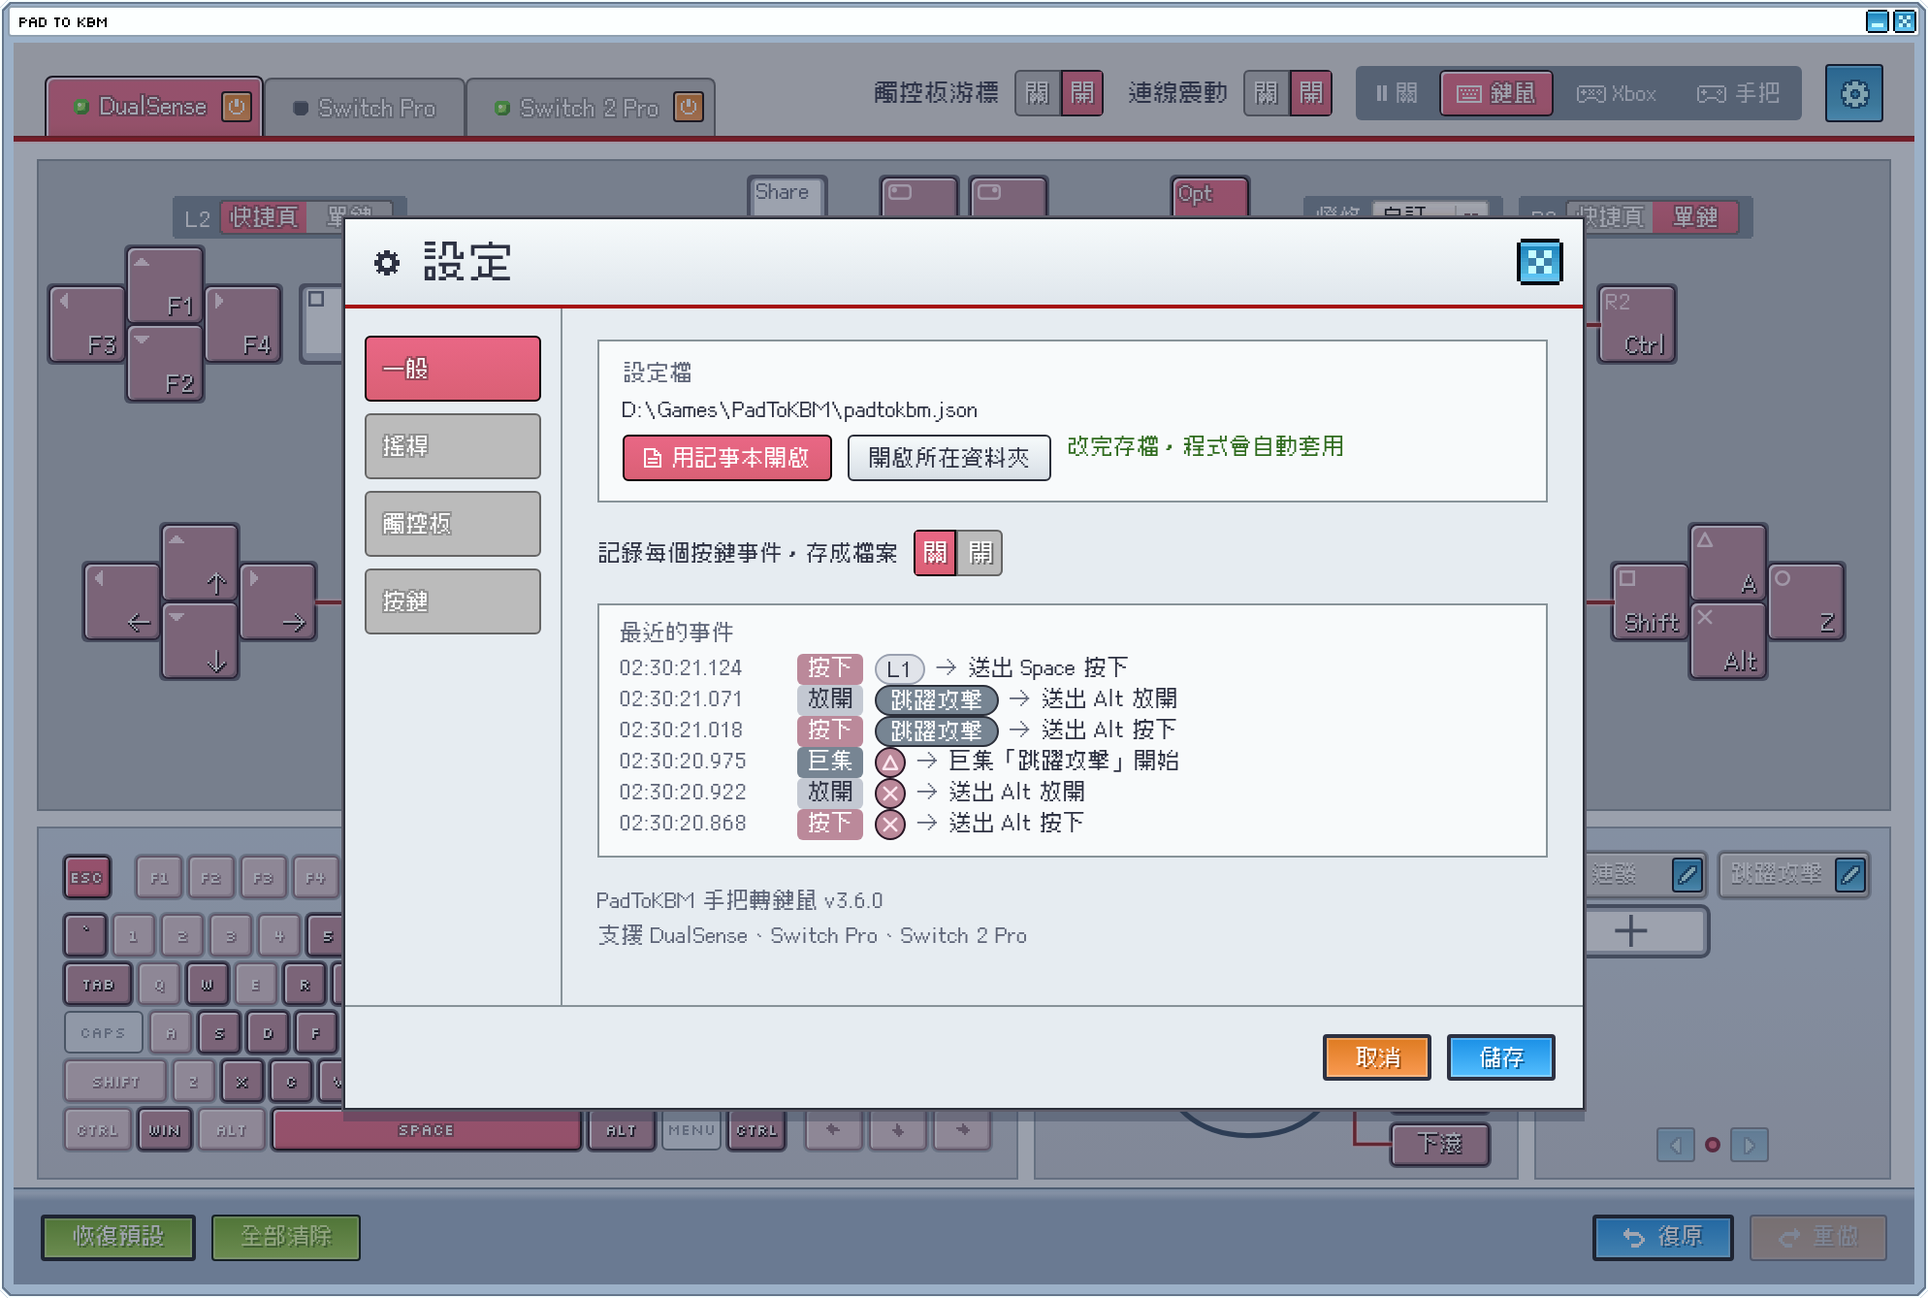
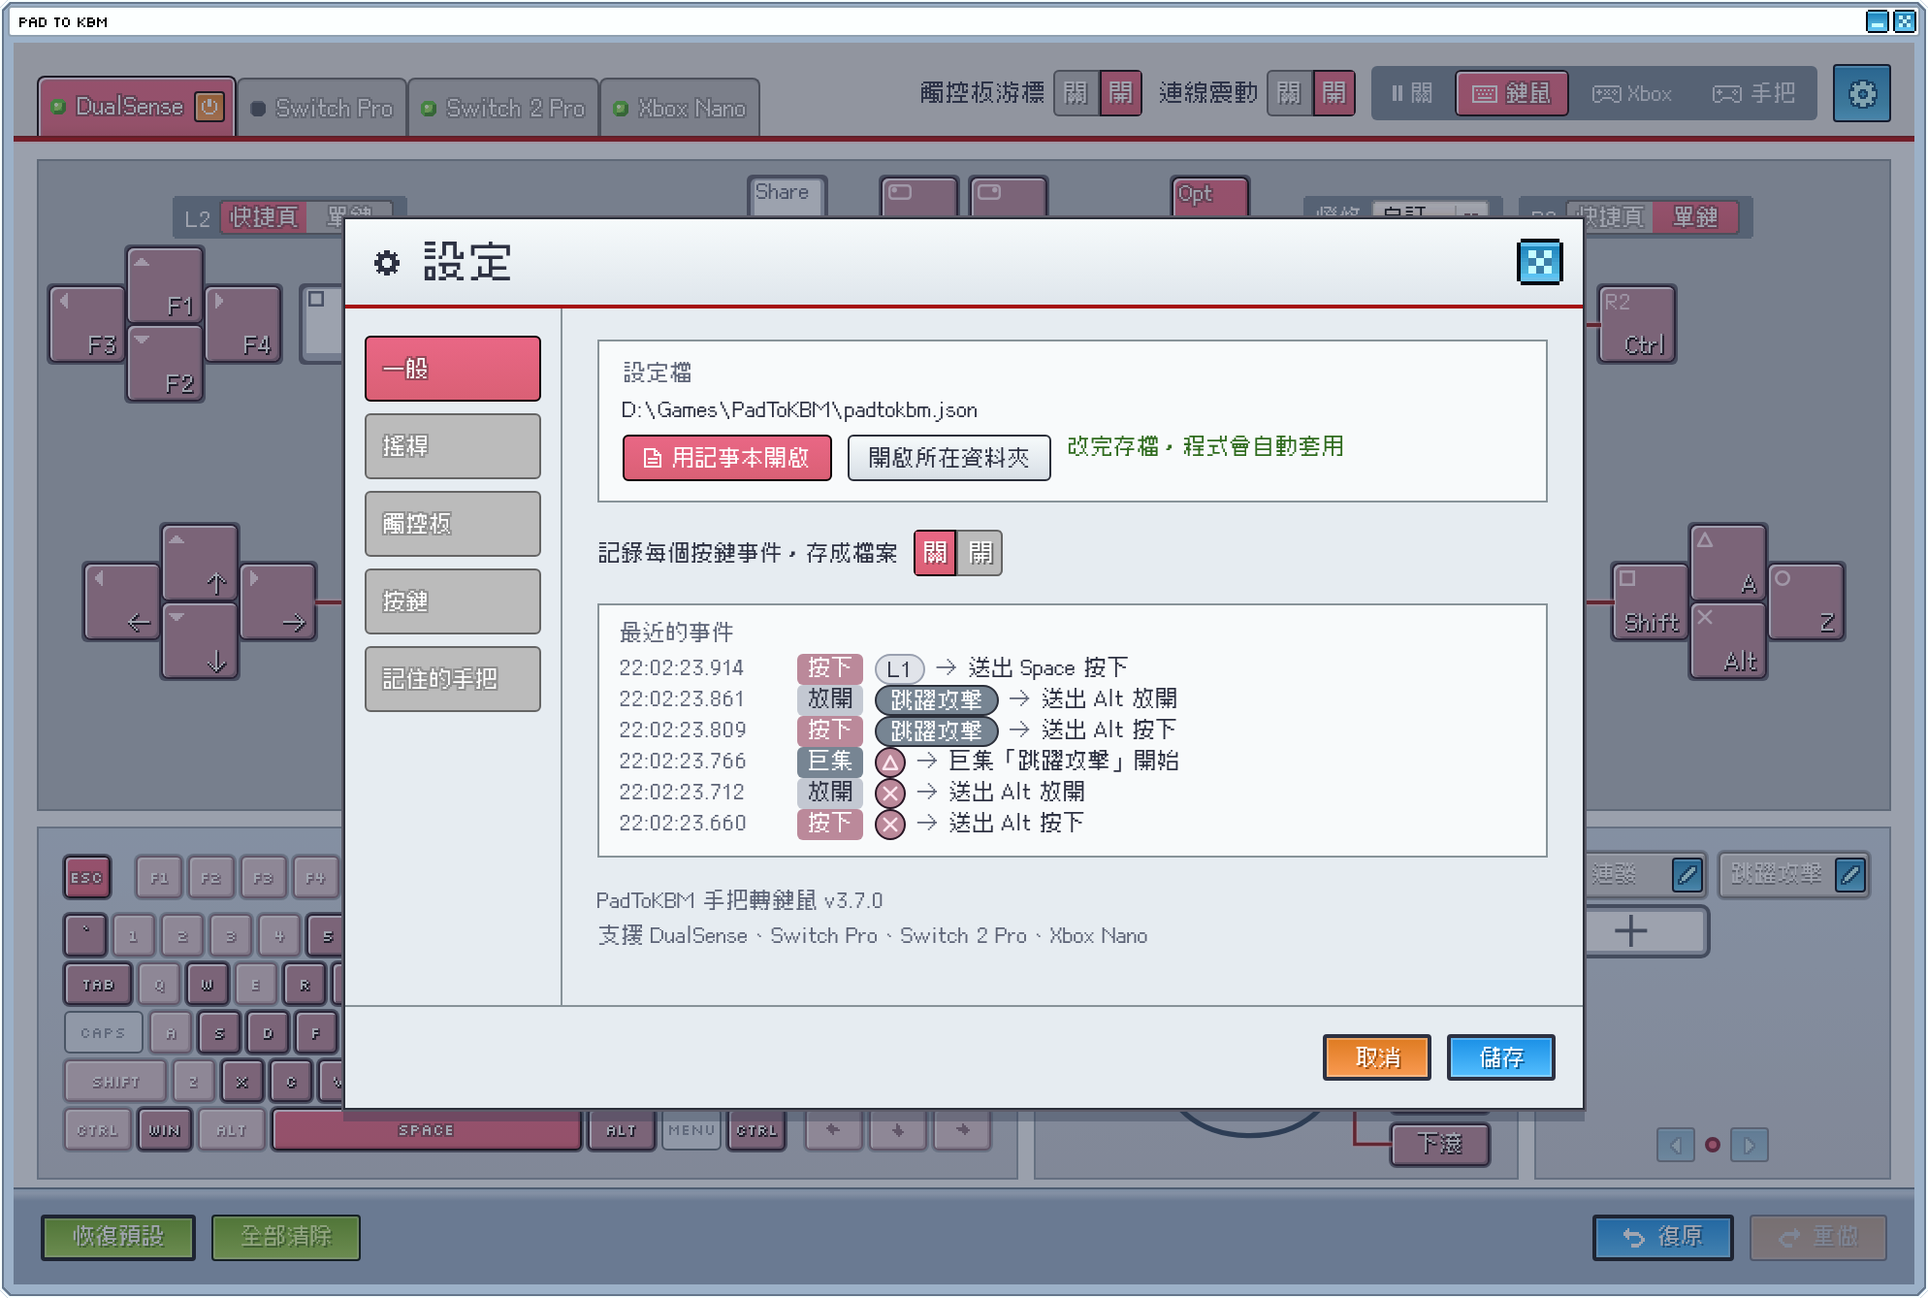
release(v3.7.0): Xbox Nano and photo-traced pad art
Version 3.7.0 in Cargo.toml, tauri.conf.json and CHANGELOG.md.

CHANGELOG: the Xbox Nano (fourth tab, Share through Raw Input, its own
HID reader, hidden in 鍵鼠, 記住的手把 with its address), the traced art
for all four pads, the joined Xbox / 手把 option; migration notes: no
power-off for the Nano (Bluetooth LE), the Xbox key and Game Bar,
macOS Phase 2 TBD for the Nano's Share.

README (zh / en): the Nano in the supported list and pairing table, a
Game Bar FAQ, ⏻ does not turn the Nano off; two new shots (xbox-nano,
known-pads) from scripts/readme-shots.mjs, the others retaken with four
tabs. CLAUDE.md: pads.xbox_nano in iron rule 1, the pad slugs in the
controller-status note, BLE pads left out of the auto power-off (rule
7), the Nano's Share among the macOS Phase 2 TBD items.

web-smoke: the Nano on 手把 (.xjoin.on) keeps the header fit and the
gear at 975; the settings about line names four pads; 記住的手把 shows
Xbox Nano 藍牙 F9:A8. padart.js: the XN comment's parenthesis closes.

Claude-Session: https://claude.ai/code/session_018PWF1rA9AnneKyPv6w4CUm

diff --git a/rust/web/board/padart.js b/rust/web/board/padart.js
@@ -42,7 +42,7 @@ function fitOf(pad) { var f = SHOULDER[pad].fit; return { tf: 'translate(' + f.t
 // user ruling: the outline is how the pad really looks). Photo -> pad units: k = 0.384 units per photo px,
 // x' = (x - 490)k + 150, y' = (y - 322)k + 40 (assets mock-board/padart.js modelXN, labelfix.json xbox_nano:1;
 // LT moved from x 94.5 to 95.2: RT, wider than LT, then also clears its key face by 1.45, and at 1x the stems
-// of LT and RT fall on pixel columns (bars on rows: y 25, cap 5).
+// of LT and RT fall on pixel columns (bars on rows: y 25, cap 5)).
 var XN_BODY = 'M58,40 H242 C256,40 267,46 273,55 C280,66 285,80 288,92 C292,110 295,128 294,146 C293,160 286,172 274,178 C266,181 256,181 248,180 C236,179 228,176 220,173 C214,171.5 210,171 204,171 H96 C90,171 86,171.5 80,173 C72,176 64,179 52,180 C44,181 34,181 26,178 C14,172 7,160 6,146 C5,128 8,110 12,92 C15,80 20,66 27,55 C33,46 44,40 58,40 Z';
 var XN_PLATE = 'M52,48 H248 C260,48 270,52 275,60 C279,67 280,75 280,84 C280,100 277,118 273,132 C269,147 260,158 244,161 C236,162 230,162 224,162 H76 C70,162 64,162 56,161 C40,158 31,147 27,132 C23,118 20,100 20,84 C20,75 21,67 25,60 C30,52 40,48 52,48 Z';
 // LT (back, drawn before the body) and LB (front, after it); labels [left, right, x, y, rotate, cap height].

diff --git a/README.md b/README.md
@@ -11,7 +11,7 @@
 <p align="center"><sub>按鍵設定畫面：把鍵盤、滑鼠或巨集方塊拖到按鈕的格子上就綁好了。按下的按鈕和它送出的鍵會亮起來。</sub></p>
 
 PadToKBM（舊名 DualSense Mapper）是一個 Windows 小程式：一個約 11 MB 的 `PadToKBM.exe`，不用安裝、不附驅動。
-支援 **DualSense（PS5）、Switch Pro、Switch 2 Pro** 三種手把，每支各自一套按鍵設定。
+支援 **DualSense（PS5）、Switch Pro、Switch 2 Pro、Xbox Nano** 四種手把，每支各自一套按鍵設定。
 最初是為了讓我太太在筆電上用手把玩 MapleStory Worlds Artale 而寫的。
 
 目前版本見 [CHANGELOG.md](CHANGELOG.md)。
@@ -28,7 +28,7 @@ PadToKBM（舊名 DualSense Mapper）是一個 Windows 小程式：一個約 11 
 | 一鍵連發、固定招式要按很多下 | **巨集**：錄一串按下／放開，可以循環；每一步的延遲都是「最短～最長」的範圍 |
 | 怕被當成腳本或外掛 | 所有按鍵時間都帶隨機，沒有固定節拍；只用 Windows 一般的按鍵輸入，不注入、不改遊戲 |
 | 鍵卡住放不開 | 手把斷線、關掉程式、程式當掉時，按著的鍵都會放開 |
-| 有時想直接用手把玩 | 右上角每支手把各自選「關｜鍵鼠｜Xbox｜手把」：手把就是程式不送東西、遊戲直接用手把；Xbox 是讓遊戲看到一支 Xbox 手把（Switch 2 Pro 只能選 Xbox） |
+| 有時想直接用手把玩 | 右上角每支手把各自選「關｜鍵鼠｜Xbox｜手把」：手把就是程式不送東西、遊戲直接用手把；Xbox 是讓遊戲看到一支 Xbox 手把（Switch 2 Pro 只能選 Xbox；Xbox Nano 本來就是 Xbox 手把，Xbox 和手把是同一個選項） |
 
 ---
 
@@ -43,6 +43,7 @@ PadToKBM（舊名 DualSense Mapper）是一個 Windows 小程式：一個約 11 
 | DualSense | 同時按住 PS 鍵和 Create 鍵到燈條閃爍，再到 Windows「藍牙與裝置」加入 |
 | Switch Pro | 按住頂端的配對鍵到燈號跑動，再到 Windows「藍牙與裝置」加入 |
 | Switch 2 Pro | **不要**在 Windows 裡配對。開著 PadToKBM，第一次按住手把上的小 SYNC 鍵；之後按任一鍵就會連上 |
+| Xbox Nano | 按住配對鍵到 Xbox 鍵快速閃爍，再到 Windows「藍牙與裝置」加入 |
 
 **3. 雙擊 `PadToKBM.exe`**：視窗打開後按手把試試，對應的鍵會送到目前在前景的程式。
 第一次執行會在 exe 旁邊寫一份設定檔 `padtokbm.json`；整個資料夾可以直接搬到別台電腦用。
@@ -76,6 +77,14 @@ PadToKBM（舊名 DualSense Mapper）是一個 Windows 小程式：一個約 11 
     <td><sub><b>燈條</b>（DualSense）。選「自訂」後，鍵鼠時和非鍵鼠時各設一種效果：關燈、固定、呼吸或彩虹。切到手把或關，燈跟著換。</sub></td>
     <td><sub><b>自訂顏色。</b>點「＋」，拖色相和飽和兩條色帶，或直接打色碼。</sub></td>
   </tr>
+  <tr>
+    <td><img src="docs/images/readme/xbox-nano.png" alt="Xbox Nano 分頁：按住 Share，Share 格子和鍵盤的 F12 亮起"></td>
+    <td><img src="docs/images/readme/known-pads.png" alt="設定的記住的手把分頁：DualSense 藍牙 23:D2，Xbox Nano 藍牙 F9:A8 連線中"></td>
+  </tr>
+  <tr>
+    <td><sub><b>Xbox Nano。</b>每顆鍵都能綁，Share 也可以（這裡送 F12）。四支手把的圖都照實物描的。</sub></td>
+    <td><sub><b>記住的手把。</b>藏過的手把會留在這裡，藍牙手把附上位址末四碼；連線中的不能刪。</sub></td>
+  </tr>
 </table>
 
 <sub>截圖用的是示範設定，可用 <code>scripts/readme-shots.mjs</code> 重新產生。</sub>
@@ -108,11 +117,17 @@ PadToKBM（舊名 DualSense Mapper）是一個 Windows 小程式：一個約 11 
 
 選「Xbox」：遊戲會看到一支虛擬 Xbox 手把。DualSense／Switch Pro 另外需要
 [HidHide 1.5.230](https://github.com/nefarius/HidHide/releases/tag/v1.5.230.0)，把原本的手把對遊戲藏起來，遊戲才不會同時讀到兩支。
-「鍵鼠」模式也會用 HidHide 藏住 DualSense／Switch Pro（遊戲只看到鍵盤滑鼠）；沒裝 HidHide 時鍵鼠照常運作，第一次會提示安裝一次（按「稍後」就不再自動跳出），之後齒輪旁留一個「!」可隨時點開。「手把」模式不藏，遊戲可直接讀。
+「鍵鼠」模式也會用 HidHide 藏住 DualSense／Switch Pro／Xbox Nano（遊戲只看到鍵盤滑鼠）；沒裝 HidHide 時鍵鼠照常運作，第一次會提示安裝一次（按「稍後」就不再自動跳出），之後齒輪旁留一個「!」可隨時點開。「手把」模式不藏，遊戲可直接讀。
 缺什麼，選 Xbox 時的提示會列出來，按一下就下載官方安裝程式、核對檔案後執行（會要求系統管理員權限）。
 連過一次的手把會被記住，之後先開 PadToKBM 再開手把就直接藏好；如果開程式時手把已經開著，程式會先把它關機，按 PS／HOME 鍵打開就好。只有需要重連的那一支會被關機：有兩支同型號的手把時，正在用的那支不受影響。記住的手把可以在「設定 → 記住的手把」刪除；藍牙手把會顯示藍牙位址末四碼（例如 23:D2），同型號的兩支分得出來。
 畫面出現「再連一次」時，要按分頁上的電源鍵斷開、再按 PS／HOME 鍵連回來一次；手把用 USB 線連著時，畫面會改說拔掉 USB 線再插回去。從 Xbox 切到鍵鼠，手把仍然藏著；切到「手把」或關掉程式，手把就不再藏起來（切到「關」不會放回來）。
+Xbox Nano 不需要這些：它本來就是 Xbox 手把，選「Xbox」或「手把」都是讓遊戲直接讀它。它走低功耗藍牙，PadToKBM 沒辦法替它關機，分頁上的電源鍵也關不掉它；鍵鼠模式出現「再連一次」時，請在手把上把它關機再打開。
 遊戲的震動目前還不會轉給手把。
+
+### Xbox Nano 按 Xbox 鍵會跳出 Xbox Game Bar？
+
+那是 Windows 自己的功能，不是 PadToKBM 送的。不想要的話，到 Windows「設定 → 遊戲 → Game Bar」把「允許您的控制器開啟 Game Bar」關掉（Windows 10 叫「使用控制器上的這個按鈕開啟 Xbox Game Bar」）。
+Xbox 鍵和 Share 鍵在 PadToKBM 裡一樣可以綁鍵；Share 是從 Windows 的鍵盤輸入讀到的（Raw Input，只讀不攔）。
 
 ### 設定檔在哪？可以直接改嗎？
 
@@ -125,7 +140,7 @@ PadToKBM（舊名 DualSense Mapper）是一個 Windows 小程式：一個約 11 
 
 ### 不想用的時候可以把手把關掉嗎？
 
-可以，點手把名稱旁的電源鍵。配對會保留，按 PS／HOME 鍵就能再連上。
+可以，點手把名稱旁的電源鍵。配對會保留，按 PS／HOME 鍵就能再連上。Xbox Nano 例外：電源鍵關不掉它，要在手把上關機。
 只想讓遊戲直接用手把（不轉鍵鼠）就選「手把」；暫時不想讓它送東西就選「關」。
 
 ### 想讓遊戲或 Steam 控制燈條，怎麼辦？
@@ -133,9 +148,9 @@ PadToKBM（舊名 DualSense Mapper）是一個 Windows 小程式：一個約 11 
 把「燈條」選成「原廠燈」，PadToKBM 就一個位元組都不寫，燈交給遊戲或 Steam。
 從別的選項切回原廠燈後，要重新連線手把，燈才會恢復。
 
-### 支援 USB、DualSense Edge、Xbox 手把或 macOS 嗎？
+### 支援 USB、DualSense Edge、其他 Xbox 手把或 macOS 嗎？
 
-目前不支援：只走藍牙，Windows 限定。macOS 版還在計畫中；那之前 macOS 可以用 [`legacy-python/`](legacy-python/README.md) 的舊版 Python 程式（只支援 DualSense）。
+目前不支援：只走藍牙，Windows 限定；Xbox 手把只支援 Xbox Nano。macOS 版還在計畫中；那之前 macOS 可以用 [`legacy-python/`](legacy-python/README.md) 的舊版 Python 程式（只支援 DualSense）。
 
 ---
 

diff --git a/README.en.md b/README.en.md
@@ -11,7 +11,7 @@
 <p align="center"><sub>The key-binding board: drag a key, mouse button or macro tile onto a button's slot to bind it. The pressed button and the key it sends light up.</sub></p>
 
 PadToKBM (formerly DualSense Mapper) is a small Windows app: one ~11 MB `PadToKBM.exe`, no installer, no bundled driver.
-It supports **DualSense (PS5), Switch Pro and Switch 2 Pro**, each with its own set of bindings.
+It supports **DualSense (PS5), Switch Pro, Switch 2 Pro and Xbox Nano**, each with its own set of bindings.
 It was first written so my wife could play MapleStory Worlds Artale with a controller on a laptop.
 
 The app's interface is in Traditional Chinese; the labels quoted below (「…」) are what you see on screen.
@@ -44,6 +44,7 @@ For the current version see [CHANGELOG.md](CHANGELOG.md).
 | DualSense | Hold PS and Create until the light bar flashes, then add it in Windows "Bluetooth & devices" |
 | Switch Pro | Hold the sync button on top until the lights run, then add it in Windows "Bluetooth & devices" |
 | Switch 2 Pro | Do **not** pair it in Windows. With PadToKBM running, hold the small SYNC button the first time; afterwards any button reconnects |
+| Xbox Nano | Hold the pair button until the Xbox button flashes fast, then add it in Windows "Bluetooth & devices" |
 
 **3. Double-click `PadToKBM.exe`**: once the window is open, press buttons; the keys go to the program in the foreground.
 The first run writes a config file `padtokbm.json` next to the exe; the whole folder can be moved to another PC.
@@ -108,12 +109,17 @@ is renamed to `padtokbm.json`, and a backup `dualsense-mapper.json.bak` is kept.
 
 ### Can I turn the controller off when I'm not using it?
 
-Yes, click the power button next to the controller's name. The pairing is kept; press PS / HOME to reconnect.
+Yes, click the power button next to the controller's name. The pairing is kept; press PS / HOME to reconnect. Not the Xbox Nano: the power button cannot turn it off (Bluetooth LE), turn it off on the controller.
+
+### The Xbox Nano's Xbox button opens the Xbox Game Bar?
+
+That is Windows, not PadToKBM. To stop it, turn off "Allow your controller to open Game Bar" in Windows Settings → Gaming → Game Bar (Windows 10: "Open Xbox Game Bar using this button on a controller").
+The Xbox and Share buttons can still be bound in PadToKBM; Share is read from Windows' keyboard input (Raw Input, read only, never blocked).
 To let the game use the controller directly (no key mapping) pick 手把; to stop it sending anything for a while pick 關.
 
-### USB, DualSense Edge, Xbox controllers or macOS?
+### USB, DualSense Edge, other Xbox controllers or macOS?
 
-Not yet: Bluetooth only, Windows only. A macOS build is planned; until then macOS can use the old Python program in [`legacy-python/`](legacy-python/README.md) (DualSense only).
+Not yet: Bluetooth only, Windows only; of the Xbox controllers only the Xbox Nano. A macOS build is planned; until then macOS can use the old Python program in [`legacy-python/`](legacy-python/README.md) (DualSense only).
 
 ---
 

diff --git a/CLAUDE.md b/CLAUDE.md
@@ -169,7 +169,8 @@ hider's last round, shown 連線中), `forget_hidden_pad` (`id`; refused for a
 present pad) and `forget_all_hidden_pads` (the absent ones); fire-and-forget
 `set_capture_active`, `disconnect_gamepad`, `open_config_in_editor`,
 `open_config_folder`. Events the board listens for: `controller-status`
-(`connected` bool + `connected_pads` + `off_pads` + `warnings`),
+(`connected` bool + `connected_pads` + `off_pads` + `warnings`; the pad
+slugs are `dualsense`, `ns_pro`, `ns2_pro`, `xbox_nano`),
 `button-down/up`, `touchpad-click/hover`, `activity` (with `source`:
 `{button}` / `{macro}`), `config-changed` (also sent, with `ui: true`, when the
 hider remembers a pad).
@@ -253,8 +254,8 @@ These are project-specific invariants. Breaking any of them silently
 regresses real, observed bugs the codebase already fixed once:
 
 1. **`config.rs::Config::validate` must reject any config in which a
-   pad's `buttons` table (`pads.dualsense`, `pads.ns_pro`, `pads.ns2_pro`)
-   does not list every button id `0..=32` (the union of all supported
+   pad's `buttons` table (`pads.dualsense`, `pads.ns_pro`, `pads.ns2_pro`,
+   `pads.xbox_nano`) does not list every button id `0..=32` (the union of all supported
    pads' ids).** Missing ids are a user error, not a silent skip — except
    for the v2.1.0 touchpad-quadrant additions and the v2.5.0 Capture
    button and the v2.6.0 Switch 2 Pro additions (25..=32), which the load
@@ -333,7 +334,9 @@ regresses real, observed bugs the codebase already fixed once:
    `hidhide::bt_addr_of_instance`; never another pad of the same kind),
    once per pad per launch (`platform::power_off_addrs`, the ⏻'s
    `IOCTL_BTH_DISCONNECT_DEVICE`, no administrator rights); a pad with no
-   address (USB) is not touched. Connection state still comes from the HID
+   address (USB) is not touched, nor is a Bluetooth LE pad (the Xbox Nano:
+   its address is shown, but that IOCTL is a classic-Bluetooth disconnect).
+   Connection state still comes from the HID
    stream (iron rule 11).
    Hooking and injection stay forbidden.
 8. **The exe is double-clicked, not invoked from a terminal.** Primary
@@ -516,6 +519,6 @@ shipped three broken releases under admin override — don't repeat it.
   for the other (Phase 2 macOS is the explicit target — don't add
   Windows-only behaviour without a `#[cfg(target_os = "macos")]`
   counterpart or a deliberate "Phase 2 TBD" CHANGELOG note). The Switch 2
-  Pro (BLE + virtual pad) and Xbox output (ViGEmBus + HidHide) are such
-  Phase 2 TBD items on macOS.
+  Pro (BLE + virtual pad), Xbox output (ViGEmBus + HidHide) and the Xbox
+  Nano's Share (Raw Input) are such Phase 2 TBD items on macOS.
 - Tracking `docs/superpowers/` content.

diff --git a/CHANGELOG.md b/CHANGELOG.md
@@ -3,6 +3,48 @@
 Format follows [Keep a Changelog](https://keepachangelog.com/en/1.1.0/);
 project adheres to [Semantic Versioning](https://semver.org/spec/v2.0.0.html).
 
+## [3.7.0] - 2026-11-08
+
+### Added
+
+- **Xbox Nano support** (Bluetooth, VID 045E / PID 0B4F). A fourth tab, Xbox
+  Nano, with its own bindings: A / B / X / Y, LB / RB, LT / RT (analog, with
+  快捷頁 / 單鍵 like the other triggers), View / Xbox / Menu, both sticks and
+  their clicks, the D-pad, and Share (slot 29). The keys are named as on the
+  pad (LT／RT, LB／RB, View／Xbox／Menu, Share).
+- **Share on the Xbox Nano.** The Nano sends Share as a key press on its own
+  keyboard device, which Windows keeps for itself; PadToKBM reads it through
+  Raw Input while a Nano is connected (read only: nothing is blocked or
+  hooked) and treats it as the Share button.
+- The Nano has its own HID reader, so it can be connected together with a
+  DualSense or a Switch Pro, in either order; one of them is in use at a
+  time, as before. A Nano that is on but idle shows as connected at once when
+  it answers the read of its current state, otherwise on its first input.
+- **鍵鼠 hides the Xbox Nano** with HidHide, like the DualSense / Switch Pro.
+  記住的手把 lists it as `Xbox Nano 藍牙 F9:A8` (its Bluetooth address's last
+  four digits; the row's tooltip has the whole address).
+- **Pad art traced from the product photos** for all four controllers:
+  bodies, panels and keys where they are on the real pad, labels inside their
+  key faces, and every line ends at its key.
+
+### Changed
+
+- **Xbox and 手把 are one option on the Xbox Nano.** It already is an Xbox
+  controller, so both let the game read the Nano itself (no virtual pad, no
+  ViGEmBus prompt) and light up together. An `output_mode` of `xbox` for the
+  Nano reads as `pad`.
+
+### Migration
+
+- Older configs get the Xbox Nano's default table (`pads.xbox_nano`) and
+  `output_mode.xbox_nano: "kbm"` on load.
+- The Xbox Nano is not turned off by the app: it uses Bluetooth LE, and the
+  automatic power-off (and the tab's ⏻) only drop a classic Bluetooth link.
+  When it was on while it got hidden, turn it off and on yourself.
+- The Xbox key may open the Xbox Game Bar: that is Windows (Settings →
+  Gaming → Game Bar), not PadToKBM.
+- macOS: Phase 2 TBD for the Xbox Nano's Share (Raw Input is Windows only).
+
 ## [3.6.0] - 2026-11-08
 
 ### Added
